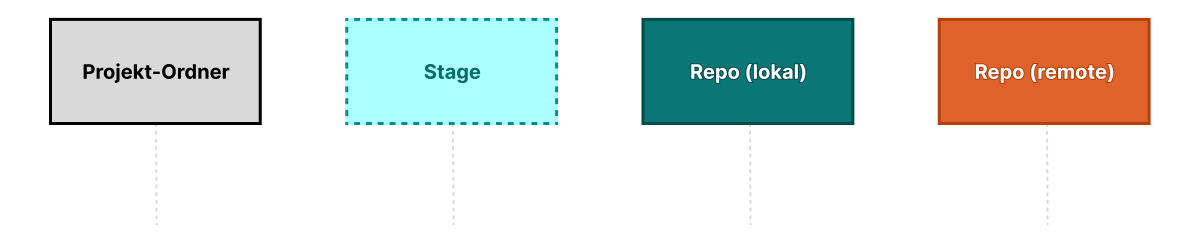
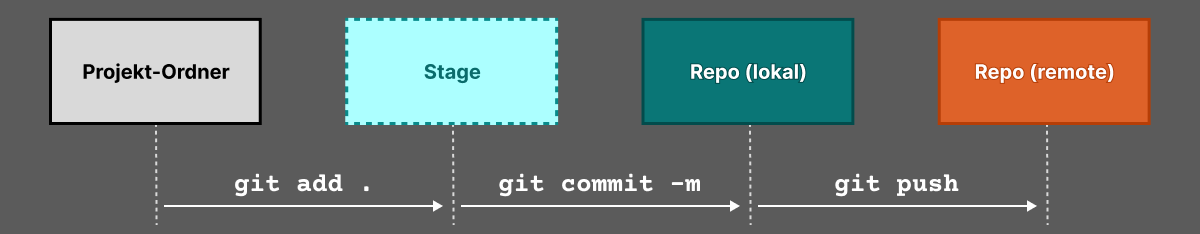
0109251548

diff --git a/docs/theorie/git.md b/docs/theorie/git.md
@@ -6,9 +6,9 @@ Ein *Repository* (kurz: "Repo") ist dein **Projekt mit Versionsgeschichte**.
 
 Es enthält:
 
-- Den aktuellen Code
-- Alle bisherigen Versionsstände (Commits)
-- Weitere Infos (z.B. Branches, Merget etc.)
+- Den aktuellen **Code**
+- Alle bisherigen **Versionsstände** (Commits)
+- **Weitere Infos** (z.B. Branches, Merges etc.)
 
 > 📘 Ein Repository ist wie ein Tagebuch deines Codes.
 
